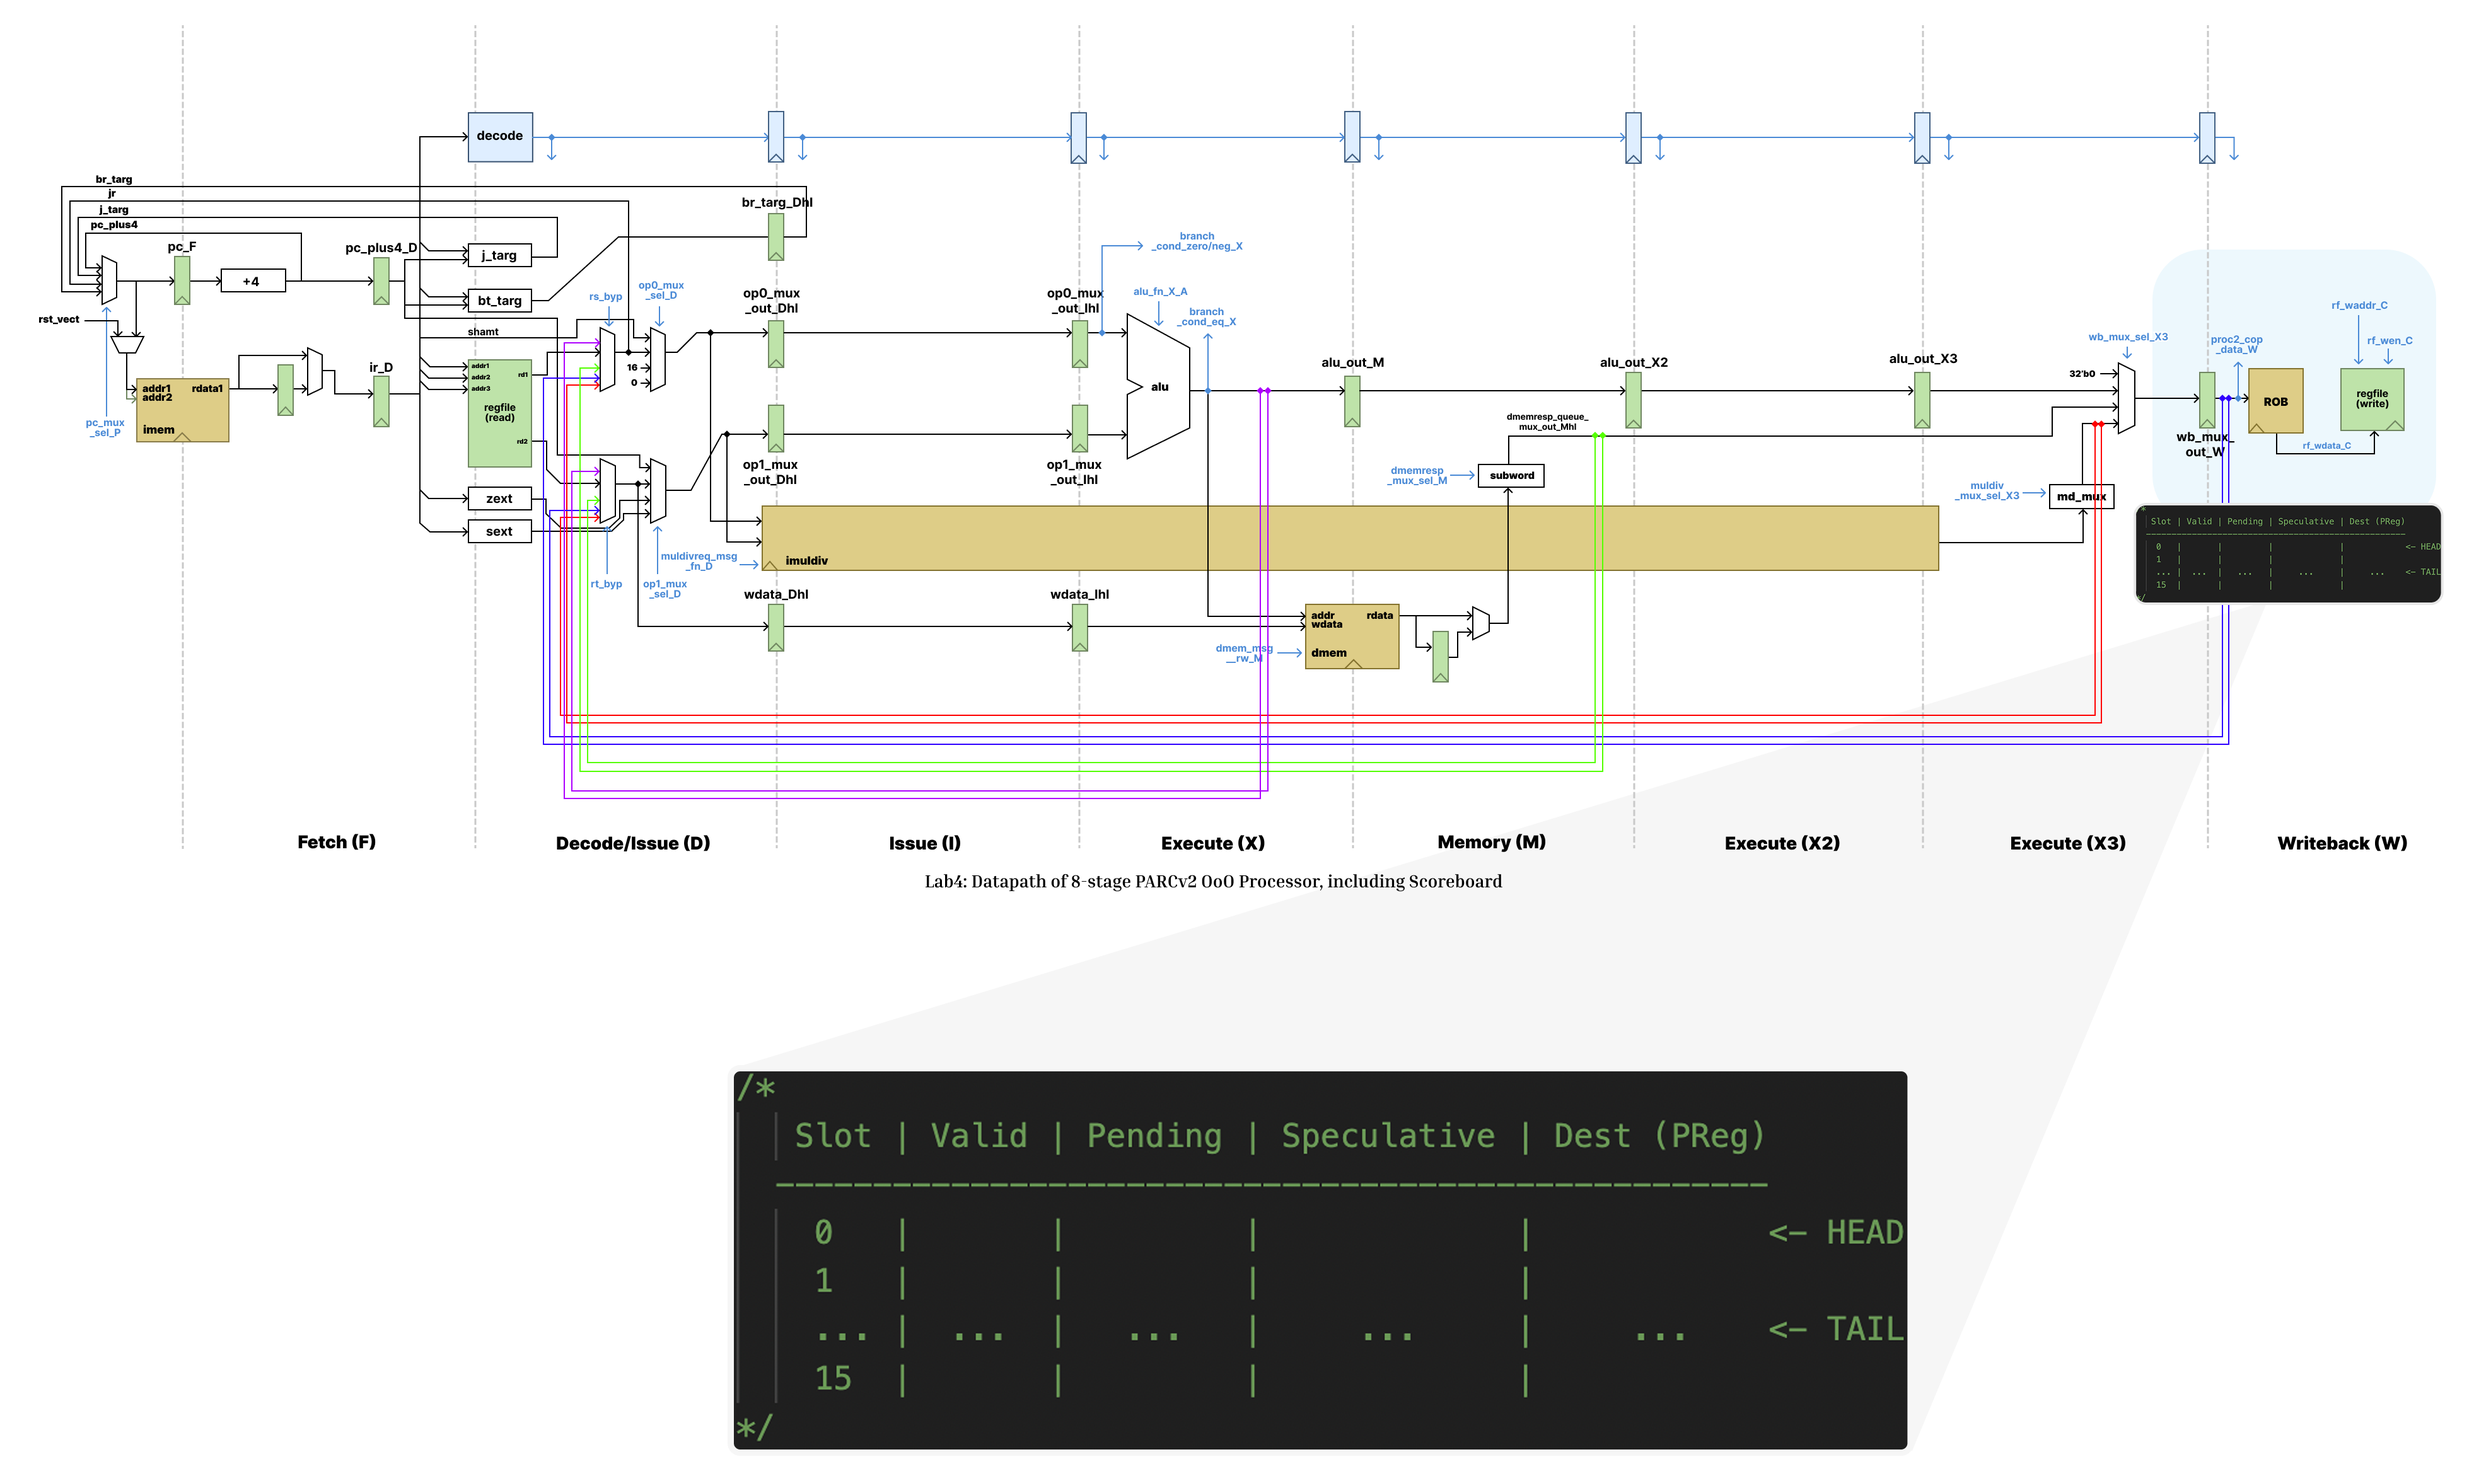
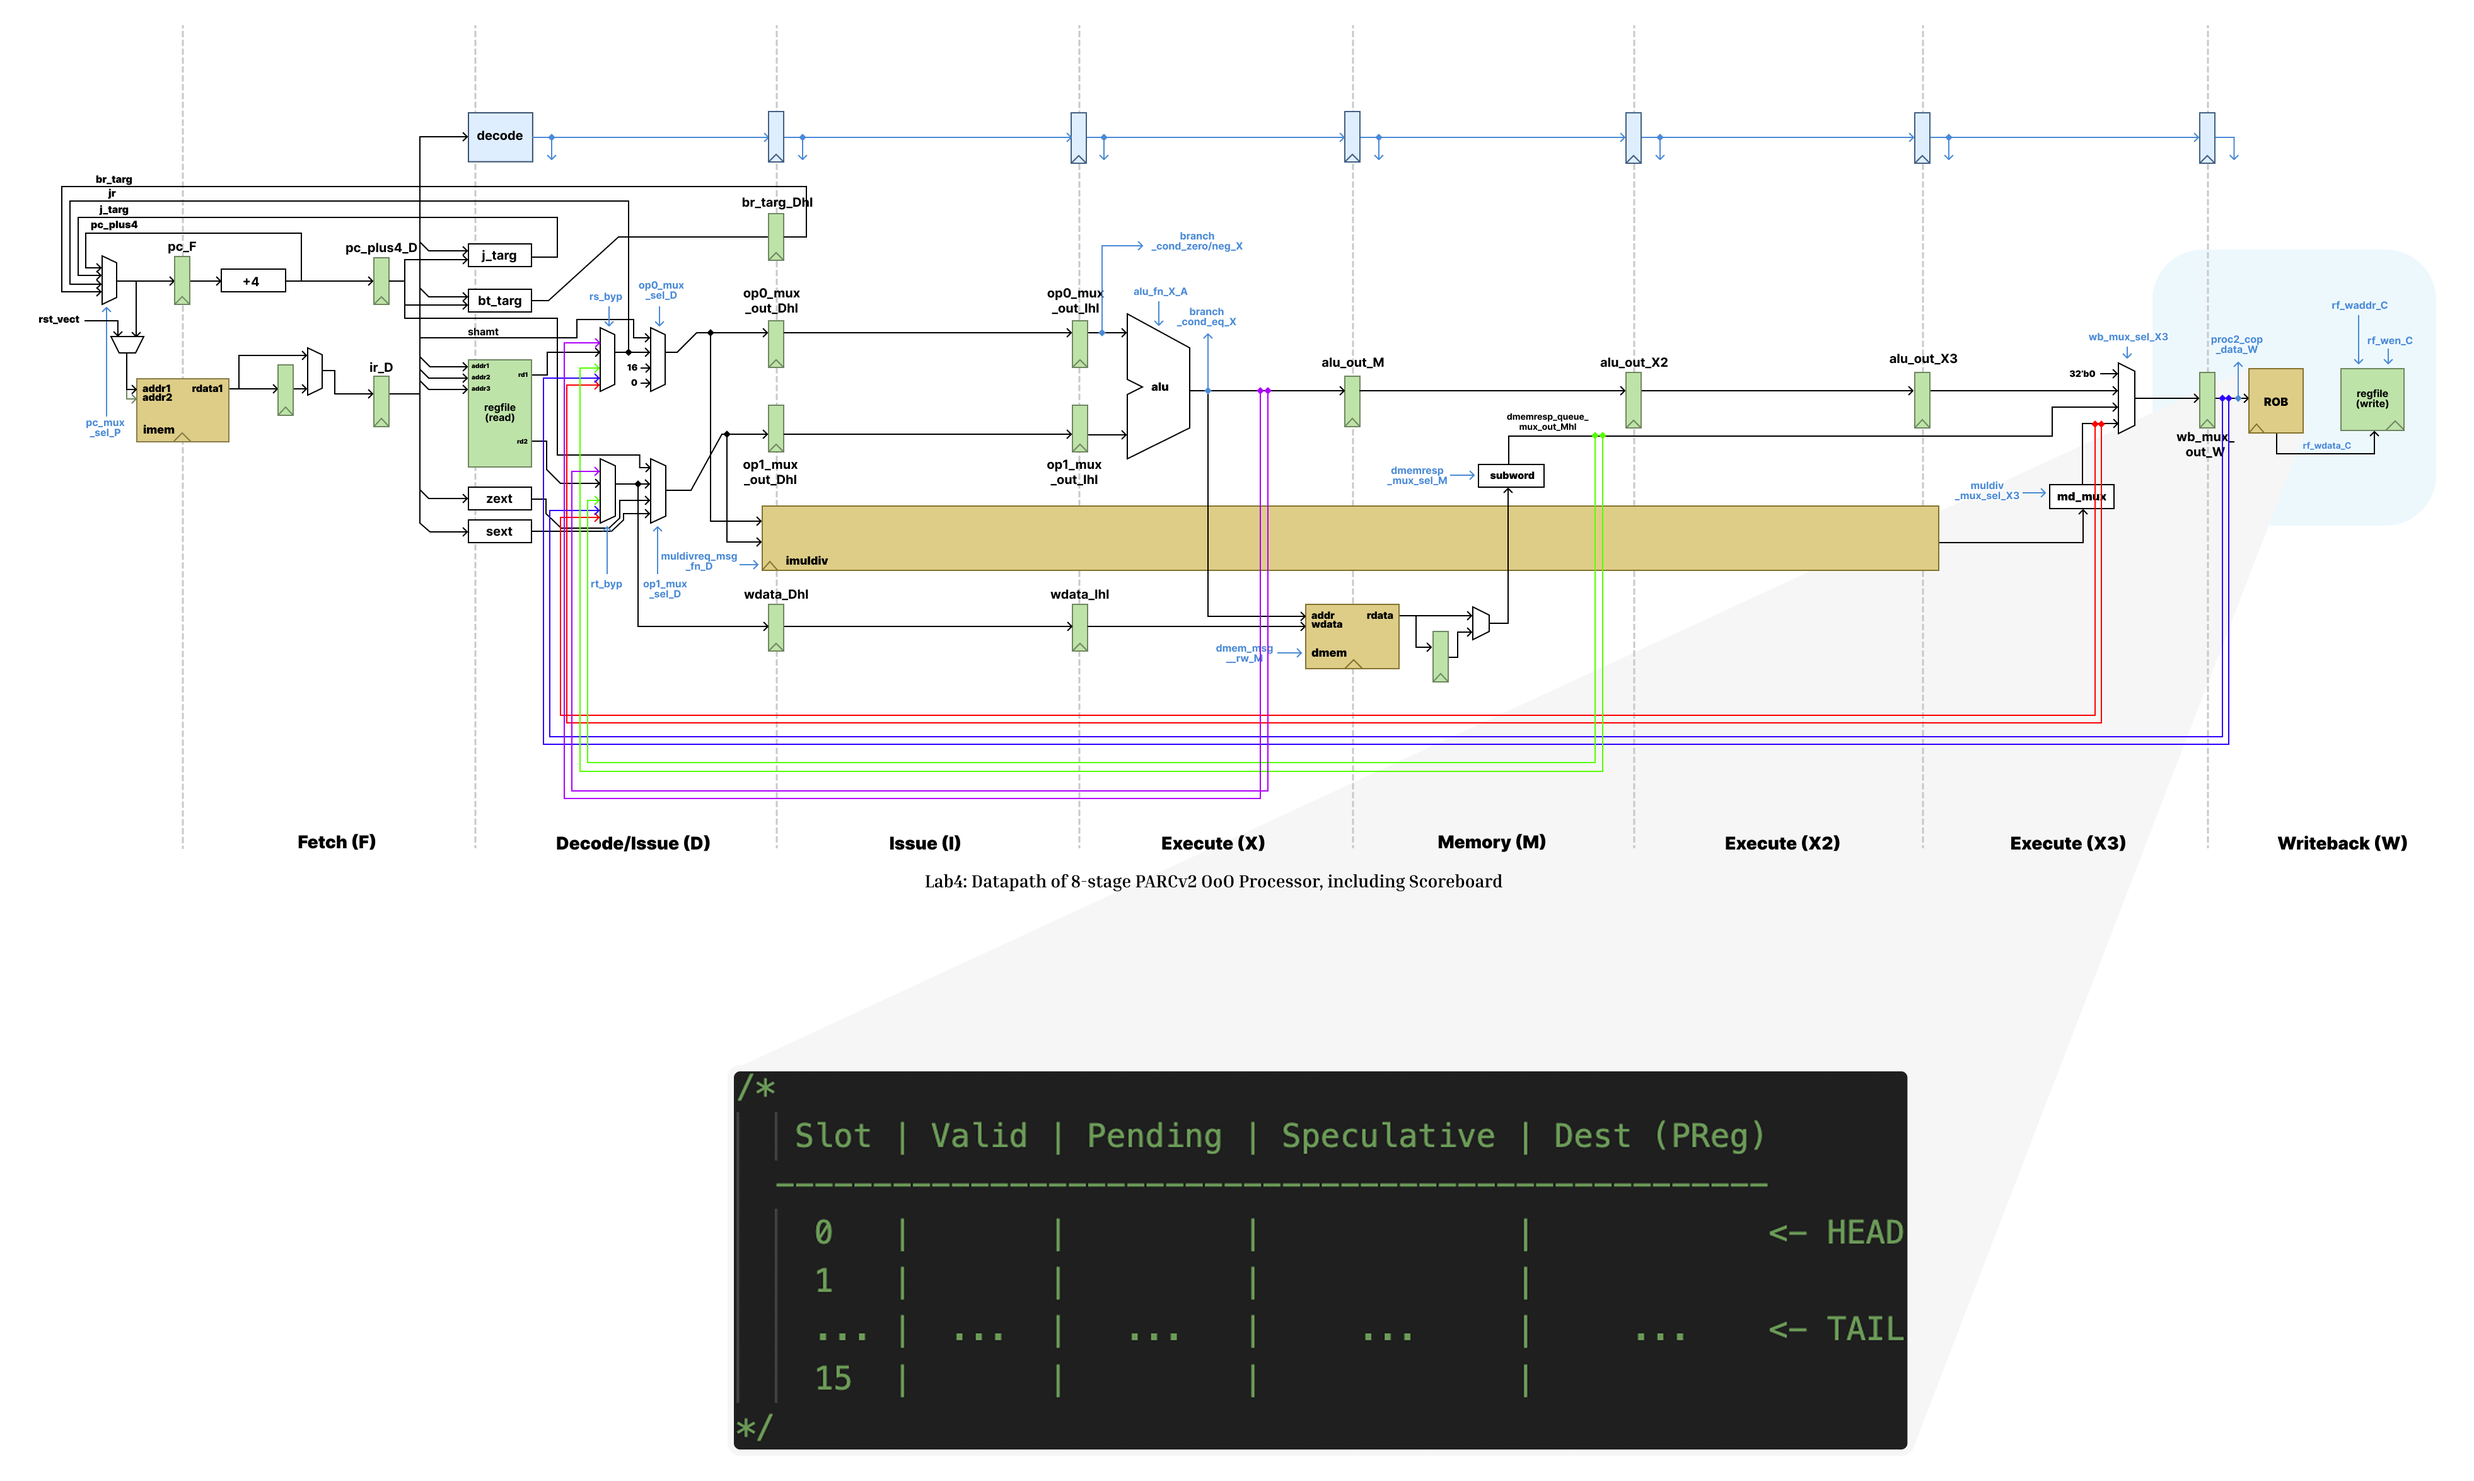
Update README

Changed region(s): [[0.8394, 0.3417, 0.9949, 0.4038]]

diff --git a/README.md b/README.md
@@ -18,3 +18,10 @@ In this lab, we extend the pipelined PARCv2 processor from the previous lab into
 ![Evaluations Against Previous Implementation Designs](static/eval_ssc.png)
 ![Superscalar Single Issue Pipeline & Scoreboarding](static/superscalar2wide1issue.png)
 ![Superscalar Dual Issue Pipeline & Scoreboarding](static/superscalar2wide2issue.png)
+
+### Lab 4: Out of Order Processor & Speculative Execution
+
+In this lab, we implement a ROB for an I2O2 processor to make it an I2OI processor.
+We also modify this processor to allow for speculative processing of the instructions immediately following a branch instruction. The speculative processor uses the ROB which is modified to account for speculatively allocated instructions and a scoreboard which we modified to take speculative instructions in the issue stage only after they have been resolved. The ROB makes the commit stage strictly in order, which ensures that WAW hazards are not an issue for the OoO processor, including when high latency writes occur immediately before a low latency write. The assembly and benchmark tests demonstrate correctness, while our custom tests also show resilience to specific edge cases. Averaging over benchmarks, the OoO processor sees an average of 33.2% speedup over the bypassing processor, but can be slower due to stalling for hazards in the writeback stage. In the two benchmarks with branching, speculative processing gives a 5.5% speedup, but there is a performance hit in including the issue stage since consecutive ALU instructions where the second uses the results of the first require an additional cycle of stalling.
+
+![OOO Processor Pipeline](static/ooo.png)
